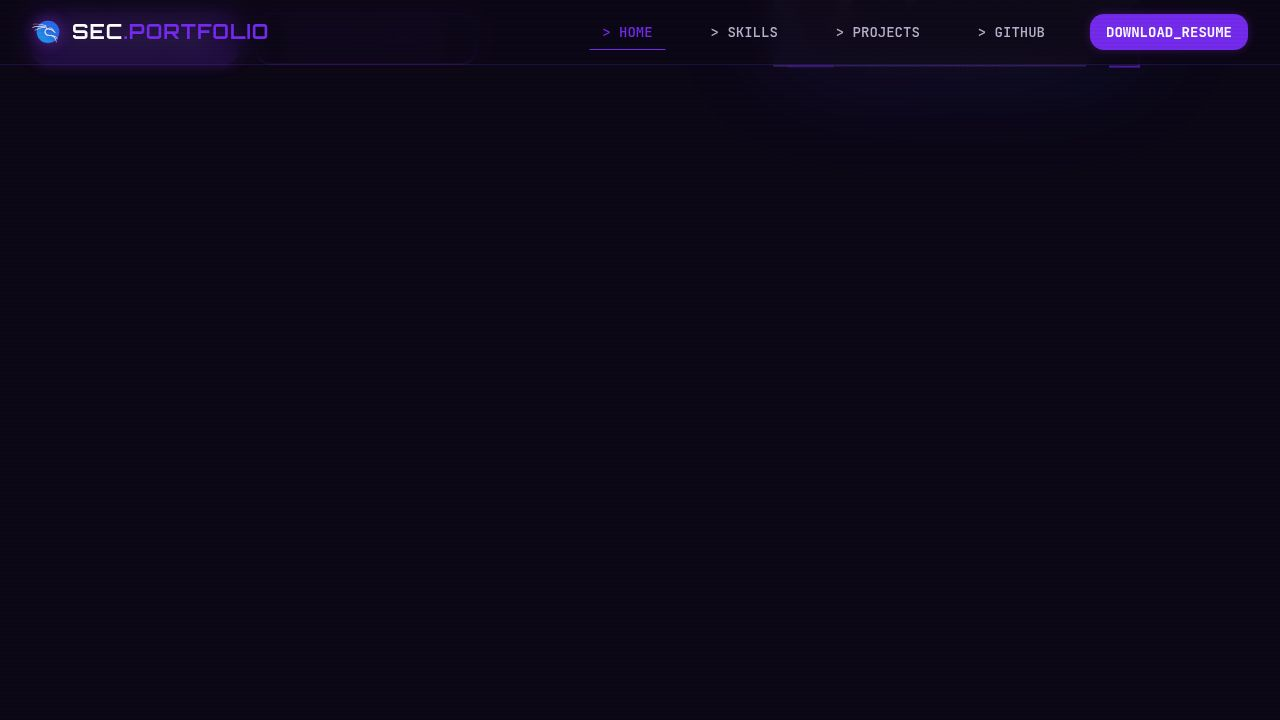
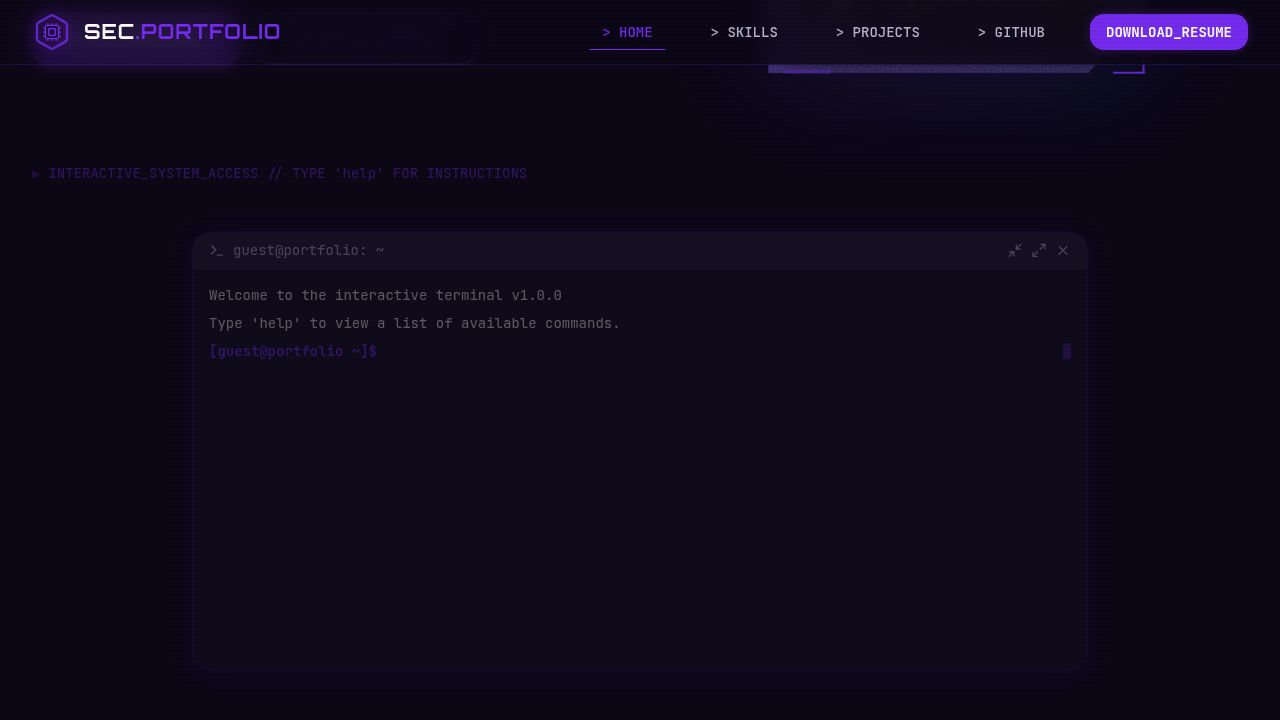
Add UAE flag emoji to location displays
Add the UAE flag emoji next to the location string in both the Home page and the interactive terminal component.

Replit-Commit-Author: Agent
Replit-Commit-Session-Id: d9829147-8b4d-47b9-a2e0-29cf5eb42337
Replit-Commit-Checkpoint-Type: full_checkpoint
Replit-Commit-Event-Id: bc0be5bb-e74d-4e7c-92ed-916552bb722f
Replit-Commit-Screenshot-Url: https://storage.googleapis.com/screenshot-production-us-central1/c8f694e6-4649-4a96-990e-c1d96851a21d/d9829147-8b4d-47b9-a2e0-29cf5eb42337/E7Ampuw
Replit-Helium-Checkpoint-Created: true

diff --git a/client/src/components/ui/InteractiveTerminal.tsx b/client/src/components/ui/InteractiveTerminal.tsx
@@ -57,7 +57,7 @@ export function InteractiveTerminal() {
           <div className="space-y-1">
             <div><span className="text-accent">Name</span>: Syed Shayan Ali</div>
             <div><span className="text-accent">Role</span>: Cybersecurity Analyst</div>
-            <div><span className="text-accent">Location</span>: United Arab Emirates</div>
+            <div><span className="text-accent">Location</span>: United Arab Emirates 🇦🇪</div>
             <div><span className="text-accent">Focus</span>: Red Teaming, SOC Operations</div>
           </div>
         );

diff --git a/client/src/pages/Home.tsx b/client/src/pages/Home.tsx
@@ -42,7 +42,7 @@ export function Home() {
                   <p className="text-foreground pl-4">
                     Name: Syed Shayan Ali<br/>
                     Role: Cybersecurity Analyst<br/>
-                    Location: United Arab Emirates<br/>
+                    Location: United Arab Emirates 🇦🇪<br/>
                     Focus: Red Teaming, SOC Operations
                   </p>
                   <p className="text-primary mt-4">$ ./list_skills</p>
